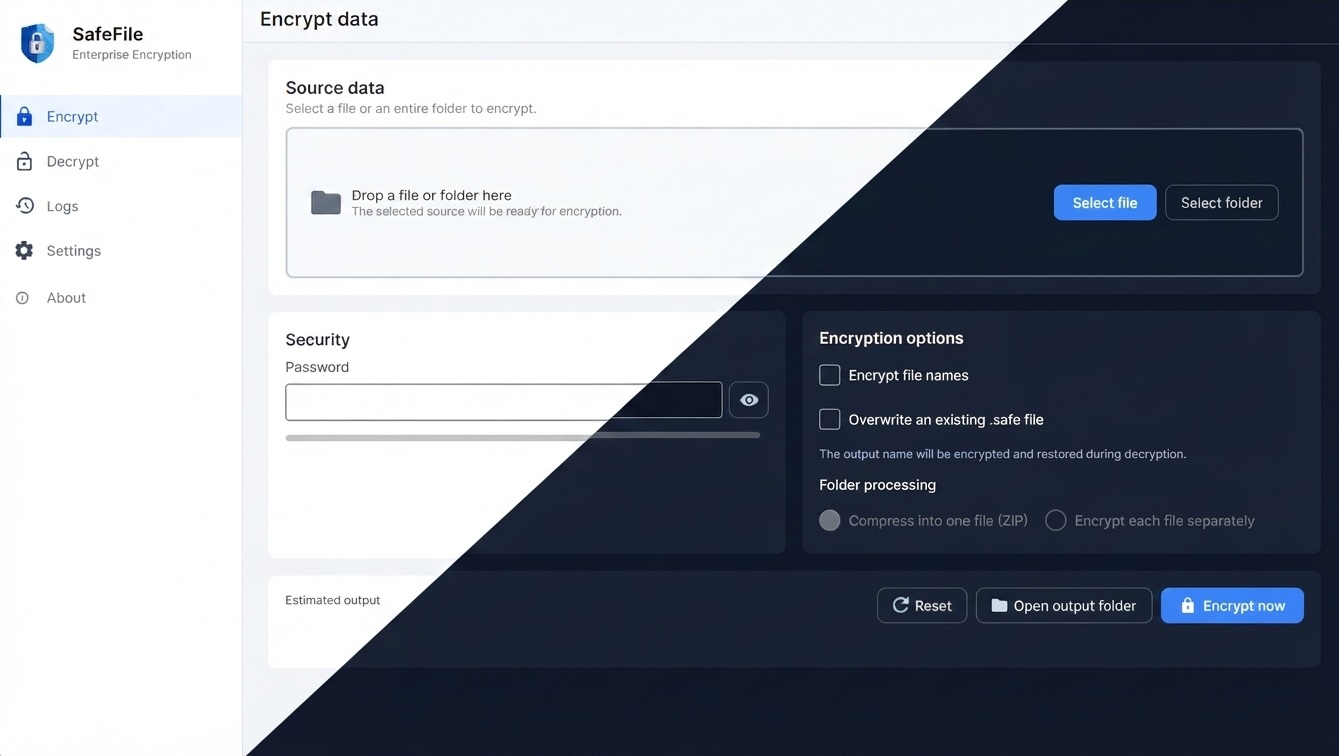
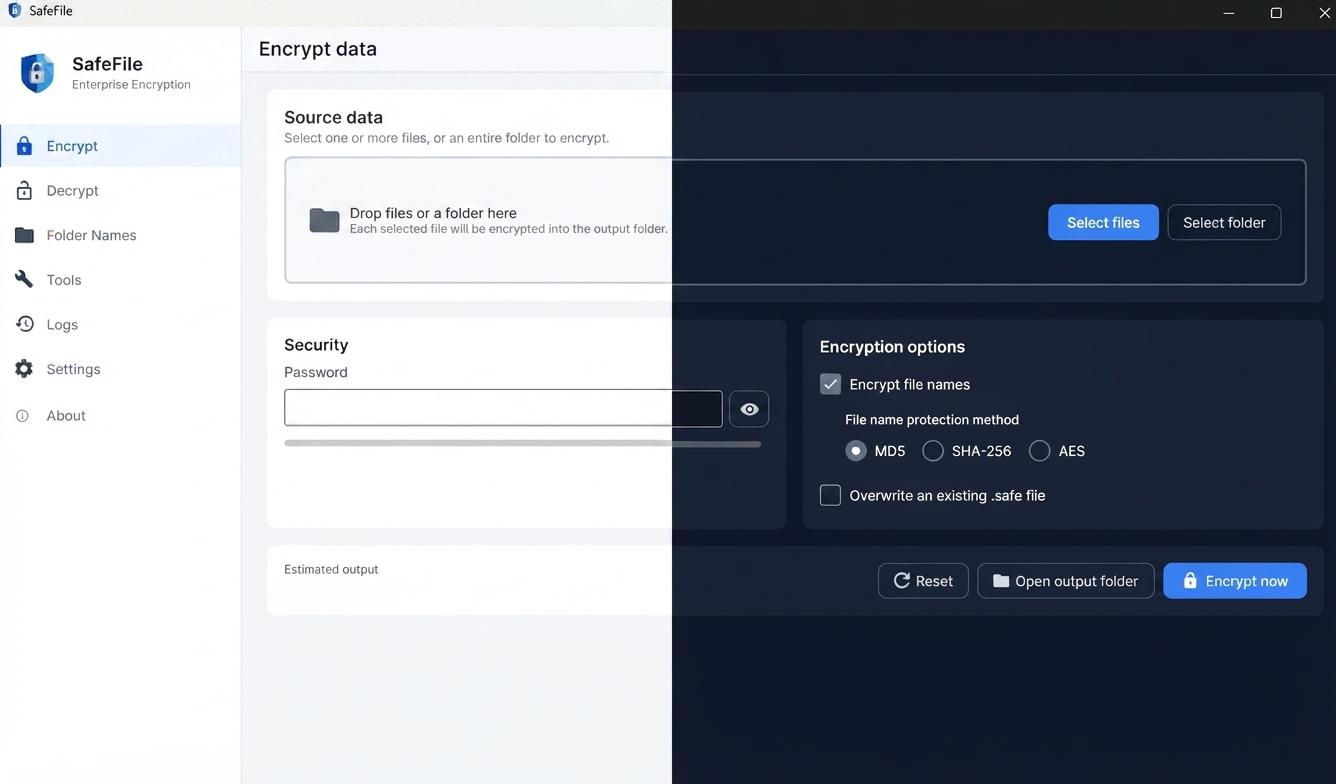
Update README and images for enhanced clarity and new features

diff --git a/README.md b/README.md
@@ -18,13 +18,13 @@ files and passwords are never sent to a remote service.
 
 </div>
 
-![SafeFile application overview](docs/images/safefile-overview.jpg)
+![SafeFile Encrypt screen shown in light and dark themes](docs/images/safefile-overview.jpg)
 
 ## Highlights
 
+- Run on Windows, Linux, and macOS.
 - Encrypt one file, multiple files, or a folder.
 - Store a folder as one ZIP vault or one vault per file (`PerFile`).
-- Batch decrypt without one failed vault stopping the rest.
 - Protect visible filenames with MD5, SHA-256, or AES while retaining the
   authenticated full original name inside the vault.
 - Protect descendant folder names through an encrypted, resumable manifest.
@@ -36,7 +36,7 @@ files and passwords are never sent to a remote service.
 - Stream data in bounded chunks instead of loading whole files into memory.
 - Preserve existing output unless overwrite is explicitly enabled.
 - Encrypt/decrypt text, calculate SHA-256, and generate secure passwords.
-- Use English or Vietnamese with Light and Dark themes.
+- Use Multi-language with Light and Dark themes.
 - Search, filter, and export structured application logs.
 
 ## Using SafeFile
@@ -68,11 +68,20 @@ The **Folder Names** page renames descendant directories without changing file
 names or file contents. Do not delete, edit, rename, or move `.safefile-names`
 while names are protected; this manifest is required to restore them.
 
-### Tools and settings
+![SafeFile folder-name protection screen](docs/images/folder-screen.png)
 
-**Tools** includes authenticated text encryption/decryption (up to 1,000,000
-characters), SHA-256, and a secure password generator. **Settings** controls
-appearance, performance, password policy, Argon2id, and separate output roots:
+### Tools
+
+The **Tools** page includes authenticated text encryption/decryption (up to
+1,000,000 characters), SHA-256 hashing, and a secure password generator.
+
+![SafeFile text encryption tool](docs/images/tools-screen.png)
+
+### Settings
+
+The **Settings** page controls language and theme, chunk size, worker threads,
+CPU priority, password policy, Argon2id parameters, and separate encrypted and
+decrypted output folders. The default output structure is:
 
 ```text
 Documents/SafeFile/
@@ -112,8 +121,6 @@ reused passwords.
 | 10 letters + digits | about 13,000 years |
 | 12 letters + digits | about 51 million years |
 | 16 letters + digits | about 756 trillion years |
-| 4 random Diceware words | about 58 years |
-| 6 random Diceware words | about 3.5 billion years |
 
 ### Limitations
 
